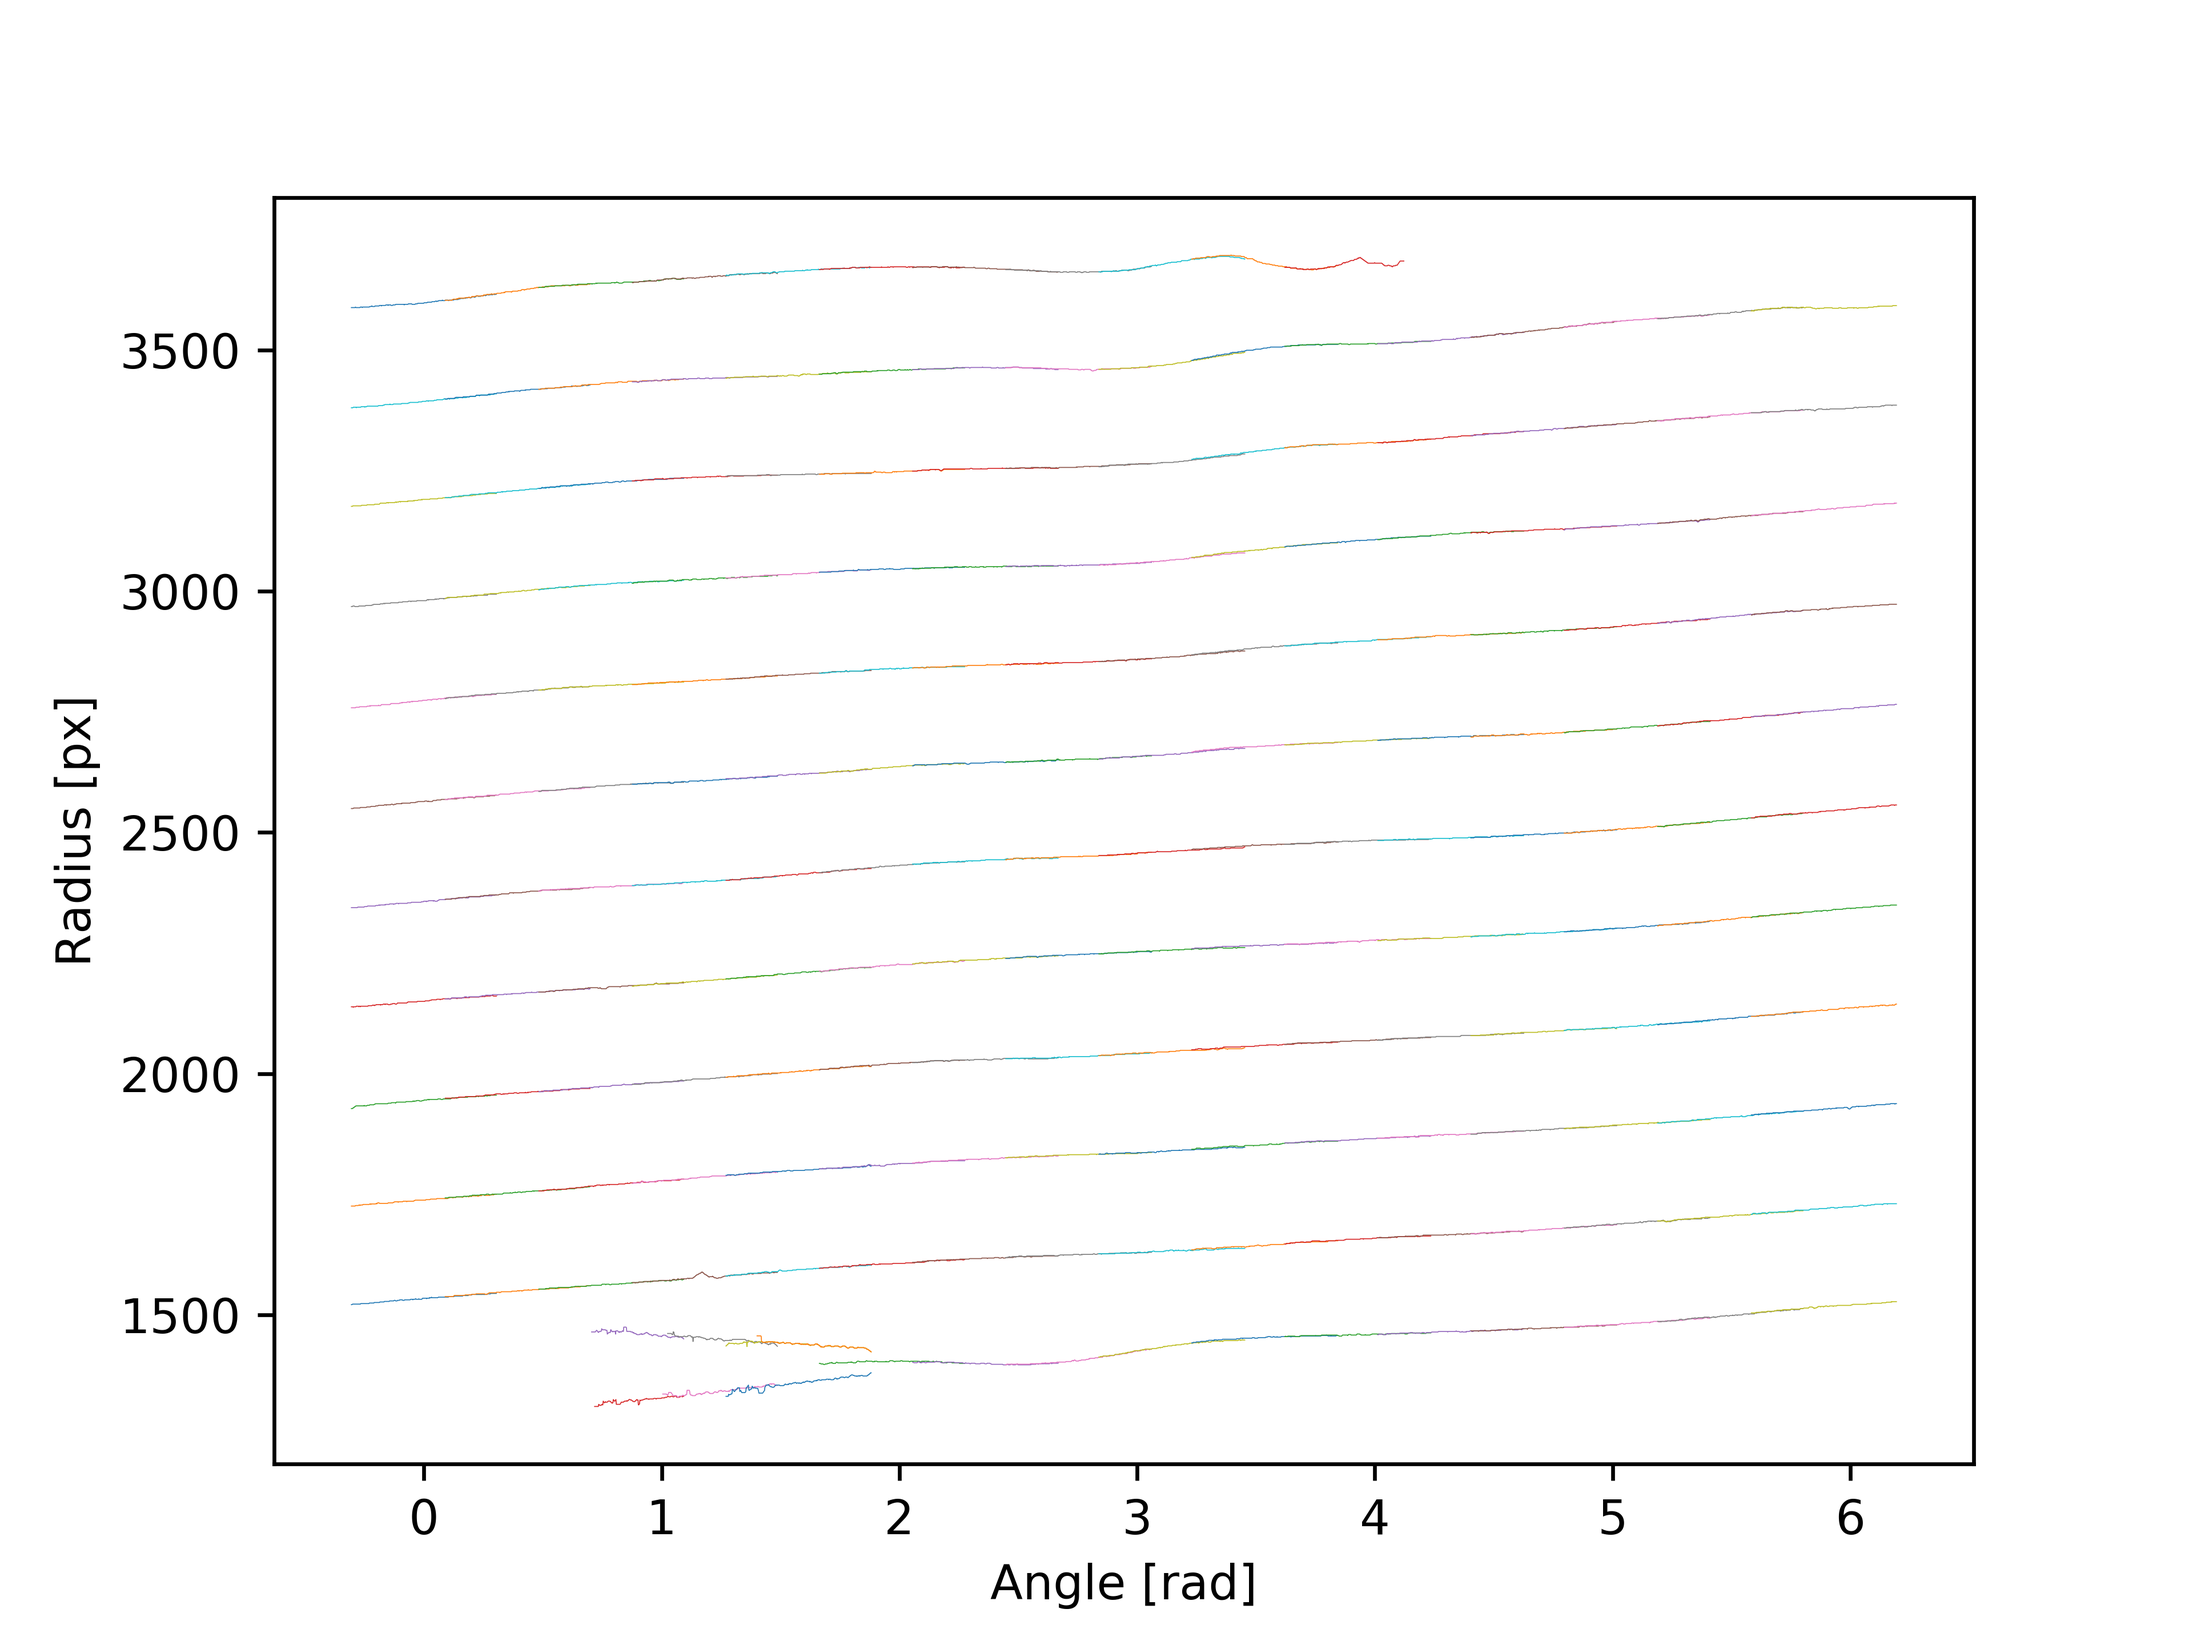
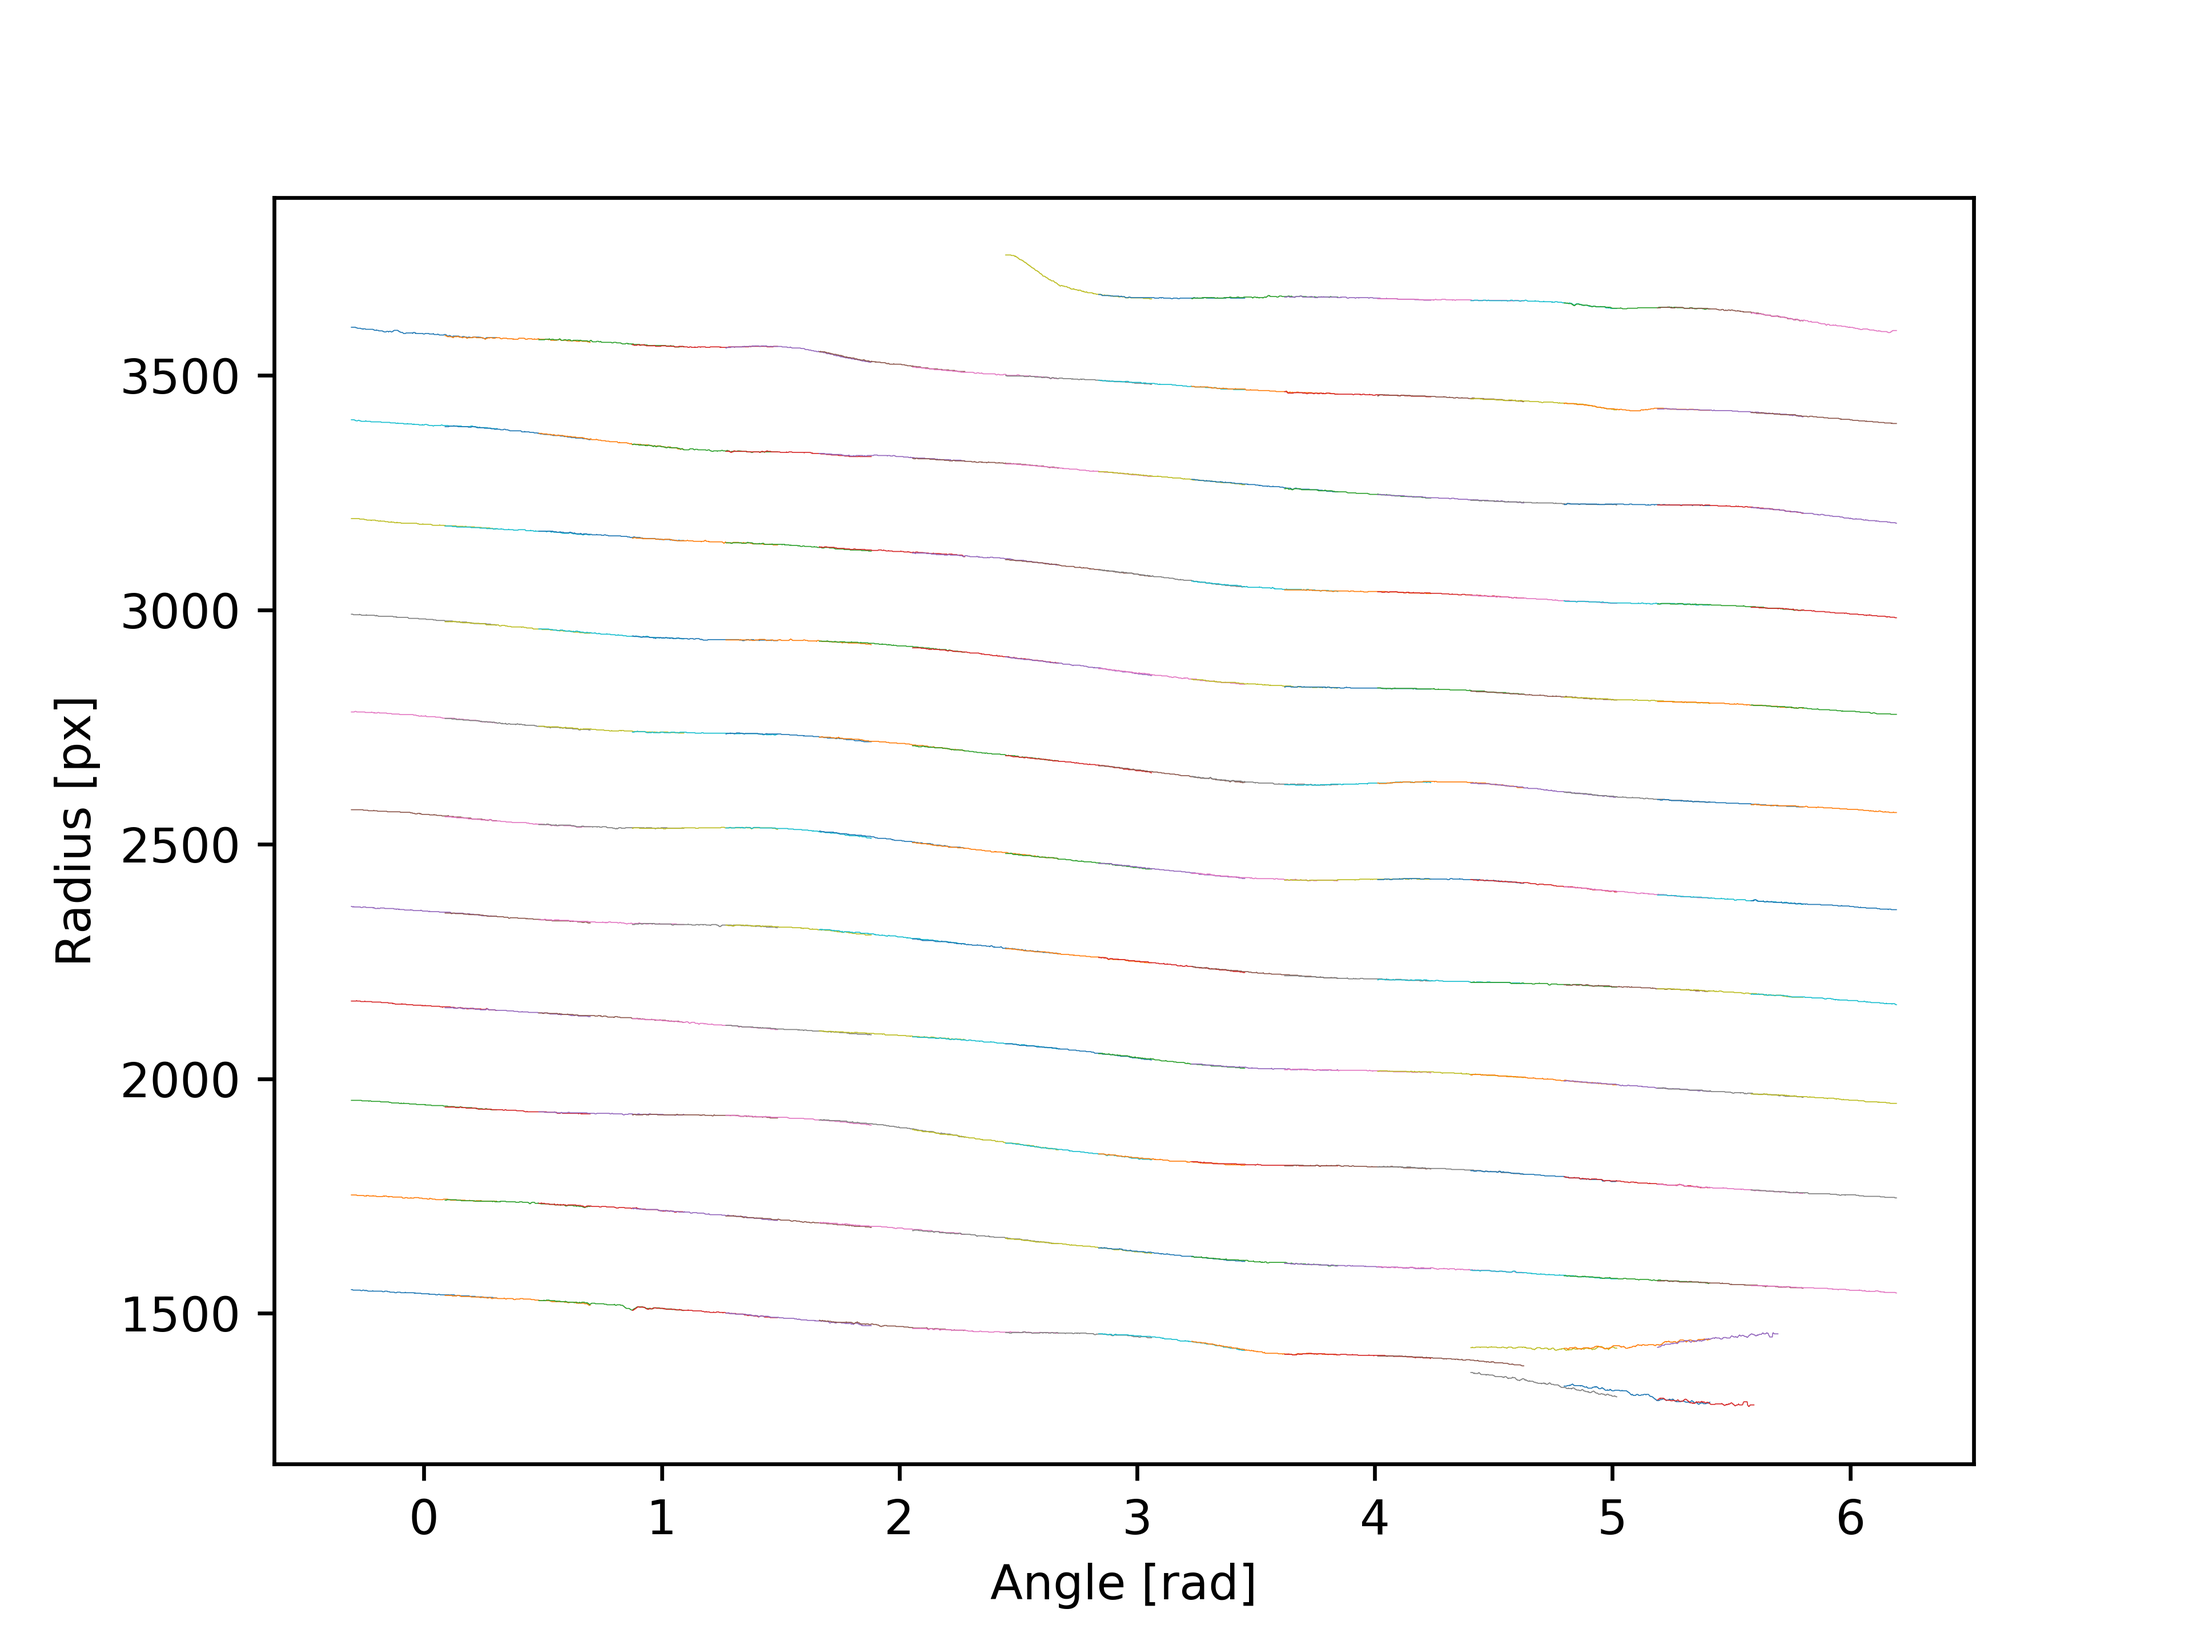
Band end detection

diff --git a/sectorImage/core/image.py b/sectorImage/core/image.py
@@ -89,10 +89,6 @@ class Image:
 
         #c = tuple(midpoint)
         cx, cy = midpoint
-        # TODO: Find out why there is this shift
-        shift = 0
-        cx -= shift
-
         c = (cx, cy)
 
         transformed = cv2.linearPolar(self.image, c, rmax, cv2.WARP_FILL_OUTLIERS)
@@ -160,9 +156,11 @@ class Image:
         """
         # t0 = time.time()
         start_range = 2000
+        end_range = np.shape(matrix)[1] - start_range
         # Initializing Empty array in Memory
         proc = np.empty(np.shape(matrix))
         start_search = np.empty(np.shape(matrix))[:, :start_range]
+        end_search = np.empty(np.shape(matrix))[:, start_range:]
         matrix = matrix.astype(np.float64, copy=False)
         # print('Blurring')
         # Gaussian Blur to remove fast features
@@ -170,22 +168,47 @@ class Image:
         cv2.GaussianBlur(src=matrix, ksize=(0, 3), dst=proc, sigmaX=3, sigmaY=0)
         cv2.GaussianBlur(src=matrix[:, :start_range], ksize=(3, 0), dst=start_search, sigmaX=0, sigmaY=3)
 
+        cv2.GaussianBlur(src=matrix[:, start_range:], ksize=(3, 0), dst=end_search, sigmaX=0, sigmaY=1)
+
         # print('Convolving')
         # Convolving with Prewitt kernel in x-direction
         prewitt_kernel_x = np.array([[1, 0, -1], [1, 0, -1], [1, 0, -1]])
         kernel_y_width = 30
         prewitt_kernel_y = np.array([[1] * kernel_y_width, [0] *
                                      kernel_y_width, [-1] * kernel_y_width])
+
+        # print(prewitt_kernel_y_end)
         cv2.threshold(src=start_search, dst=start_search, thresh=100, maxval=255, type=cv2.THRESH_TOZERO)
         cv2.filter2D(src=start_search, kernel=prewitt_kernel_y, dst=start_search, ddepth=-1)
+
+        cv2.threshold(src=end_search, dst=end_search, thresh=20, maxval=255, type=cv2.THRESH_TOZERO)
+        ndimage.minimum_filter(end_search, size=(15, 1), output=end_search)
+        cv2.filter2D(src=end_search, kernel=prewitt_kernel_y, dst=end_search, ddepth=-1)
+
         cv2.filter2D(src=proc, kernel=prewitt_kernel_x, dst=proc, ddepth=-1)
+
         np.abs(start_search, out=start_search)
+        np.abs(end_search, out=end_search)
+
         np.abs(proc, out=proc)
 
         start_amp = start_search.max()
         start_idx = np.unravel_index(start_search.argmax(), start_search.shape)
         start = (start_idx, start_amp)
 
+        end_amp = end_search.max()
+        end_idx = np.unravel_index(end_search.argmax(), end_search.shape)
+        ex, ey = end_idx
+        if ey != 0:
+            ey += start_range
+        end_idx = (ex, ey)
+        end = (end_idx, end_amp)
+        del start_search
+        # del end_search
+        print(self.id)
+        print(end_amp)
+        print(end_idx)
+        print()
         # print('Thresholding')
 
         # Threshold to 30% for noise reduction
@@ -227,15 +250,16 @@ class Image:
 
         # Combine foreground noise with with thresholded image
         cv2.bitwise_or(src1=proc, src2=labels, dst=proc)
+        # plot = True
         if plot:
             print('Plotting')
             fig = plt.figure()
             ax = fig.add_subplot(111)
-            ax.imshow(proc)
+            ax.imshow(end_search)
             ax.set_aspect('auto')
             ax.set_xlabel('Radius [px]')
             ax.set_ylabel('Angle [idx]')
-            fig.savefig(__location__ + '/../img/out/filter' + str(self.id) + '.png', dpi=600, interpolation='none')
+            fig.savefig(__location__ + '/../img/out/filter' + str(self.id) + '.png', dpi=300, interpolation='none')
 
         # print('Features detected in', str(round(time.time() - t0, 2)), 's')
-        return proc, start
+        return proc, (start, end)

diff --git a/sectorImage/core/stitcher.py b/sectorImage/core/stitcher.py
@@ -98,11 +98,16 @@ class Stitcher:
         segments = []
 
         ampstart = 0
+        ampend = 0
         for i, image in enumerate(self.images[::-1]):
             if image.start[1] > ampstart:
                 pstart = image.angles[image.start[0][0]] + (i * 2 * np.pi / len(self.fns))
                 #pstart = image.angles[image.start[0][0]] + dt[i]
                 ampstart = image.start[1]
+            if image.end[1] > ampend:
+                pend = image.angles[image.end[0][0]] + (i * 2 * np.pi / len(self.fns))
+                ampend = image.end[1]
+
             for j, coord in enumerate(zip(image.r, image.phi)):
                 rs, phis = coord
                 phis = image.angles[np.array(phis)] + (i * 2 * np.pi / len(self.fns))
@@ -117,6 +122,7 @@ class Stitcher:
             # segments.append(img_segs)
         # self.startAngle = (2 * np.pi) - pstart
         self.startAngle = pstart
+        self.endAngle = pend
         if plot:
             # ax.set_aspect('equal')
             ax.set_xlabel('Angle [rad]')
@@ -200,7 +206,6 @@ class Stitcher:
             bandR = np.empty(0)
             bandP = np.empty(0)
             if not skipFlag:
-                self.optimizeOverlap(combined)
                 for c in combined:
                     bandR = np.append(bandR, c.rs)
                     bandP = np.append(bandP, c.phis)
@@ -279,15 +284,18 @@ class Stitcher:
         # scale = 1
         compR = compR[order] * scale
         compP = chirality * compP[::chirality]
-        # print(chirality)
-        # print(self.startAngle)
-        self.startAngle = chirality * self.startAngle
-        # print('sta:', self.startAngle)
 
-        """
-        while self.startAngle > compP[0] + (2 * np.pi):
-            print('Underturning Start Angle')
-            self.startAngle -= 2 * np.pi"""
+        self.startAngle = chirality * self.startAngle
+        self.endAngle = (chirality * -1 + 1) * np.pi + (chirality * self.endAngle)
+
+        while True:
+            self.endAngle += 2 * np.pi
+            test_idx = np.argmax(compP > self.endAngle)
+            if test_idx == 0:
+                self.endAngle -= 2 * np.pi
+                end_idx = np.argmax(compP > self.endAngle)
+                break
+
         start_idx = np.argmax(compP > self.startAngle)
 
         if start_idx == 0:
@@ -296,12 +304,10 @@ class Stitcher:
             start_idx = np.argmax(compP > self.startAngle)
         # start_idx = 0
         # print(compP)
-        compP = compP[start_idx:]
+        compP = compP[start_idx:end_idx]
         compP -= compP[0]
         compP = chirality * compP[::chirality]
-        compR = compR[::chirality][start_idx:][::chirality]
-
-        self.linearizeMidpoint(compP, compR)
+        compR = compR[::chirality][start_idx:end_idx][::chirality]
 
         compX = compR * np.cos(compP)
         compY = compR * np.sin(compP)
@@ -350,19 +356,6 @@ class Stitcher:
 
         parametrized = (compP, compR, scale, chirality)
         return parametrized
-
-    def optimizeOverlap(self, segments):
-        rmin = min([np.min(s.rs) for s in segments])
-        rmax = max([np.max(s.rs) for s in segments])
-        length = sum([len(s.rs) for s in segments])
-        grid = np.linspace(rmin, rmax, num=length, endpoint=True)
-        for s in segments:
-            ...
-
-    def linearizeMidpoint(self, compP, compR):
-        cutoff = 0.9
-        cutoff_idx = int(len(compP) * cutoff)
-        m, q = np.polyfit(compR, compP, 1)
 
     def loadSegments(self, fn='stitched.npy'):
         fn = __location__ + '/../data/' + fn

diff --git a/sectorImage/combinedSequence.py b/sectorImage/combinedSequence.py
@@ -18,11 +18,11 @@ def CombinedSequence(n, directory, env):
     t1 = time.time()
     c = Calibrator(fns)
     calibration = c.computeAll()
-    # oscillation, calibrationNew = c.oscillationCircle()
-    # c.plotCalibration()
+    oscillation, calibrationNew = c.oscillationCircle()
+    c.plotCalibration()
     print(_C.BOLD + _C.CYAN + 'Calibration completed in ' + str(round(time.time() - t1, 2)) + 's' + _C.ENDC)
     t2 = time.time()
-    s = Stitcher(fns, calibration=calibration, mpflag=True, env=env)
+    s = Stitcher(fns, calibration=calibrationNew, mpflag=True, env=env)
     s.loadImages()
     segments = s.stitchImages(plot=True)
     spiral = s.combineSegments(segments, plot=True)

diff --git a/sectorImage/core/singleImage.py b/sectorImage/core/singleImage.py
@@ -36,7 +36,8 @@ class SingleImage:
         """
         self.img = image.Image(self.fn, self.calibration, lock=lock)
         angularLines, self.angles, self.radii = self.img.transformRadial(plot=False, env=env)
-        self.features, self.start = self.img.detectFeatures(angularLines, plot=False)
+        self.features, ygradients = self.img.detectFeatures(angularLines, plot=False)
+        self.start, self.end = ygradients
         if npz is not None:
             print('Storing Features in', npz)
             np.savez(npz, f=self.features, a=self.angles)

diff --git a/applied/sequence.py b/applied/sequence.py
@@ -174,7 +174,7 @@ class Sequence:
         pair = Pair(env=env, electrodes=(electrode1, electrode2), serial=serial)
         return pair
 
-    def measureOffsite(self, n=16, directory1='hardware/positive', directory2='hardware/negative'):
+    def measureOffsite(self, n=16, directory1='hardware/negative', directory2='hardware/positive'):
         serial = 'RD-OFFSITE'
         print(_C.CYAN + _C.BOLD + 'Evaluating electrode 1' + _C.ENDC)
         spiral, calibration = CombinedSequence(n=n, directory=directory1, env=env)

diff --git a/sectorImage/core/midpoints.py b/sectorImage/core/midpoints.py
@@ -17,11 +17,6 @@ class Walker:
         """
         self.image = image
         self.skeleton = self.skeletonize(self.image)
-        fig = plt.figure()
-        ax = fig.add_subplot(111)
-        ax.imshow(self.skeleton)
-        ax.set_aspect('auto')
-        fig.savefig('skeletonDebug', dpi=300)
 
     def walkSkeleton(self, plot=False, maxwidth=10):
         """

diff --git a/applied/main.py b/applied/main.py
@@ -11,9 +11,9 @@ from pair import Pair
 def main():
     s = Sequence(offsite=True)
     s.prime()
-    #pair = s.measure(n=16)
-    # pair.store()
-    pair = Pair('CSAT_LARGO.h5', fromFile=True, corrections=True)
+    pair = s.measure(n=16)
+    pair.store()
+    # pair = Pair('CSAT_LARGO.h5', fromFile=True, corrections=True)
     pair.plot()
     s.disable()
 

diff --git a/applied/pair.py b/applied/pair.py
@@ -16,7 +16,6 @@ import sys
 __location__ = os.path.realpath(
     os.path.join(os.getcwd(), os.path.dirname(__file__)))
 sys.path.append(__location__ + '/../')
-from sectorImage.core.toolkit.parmap import Parmap
 
 
 class Pair:
